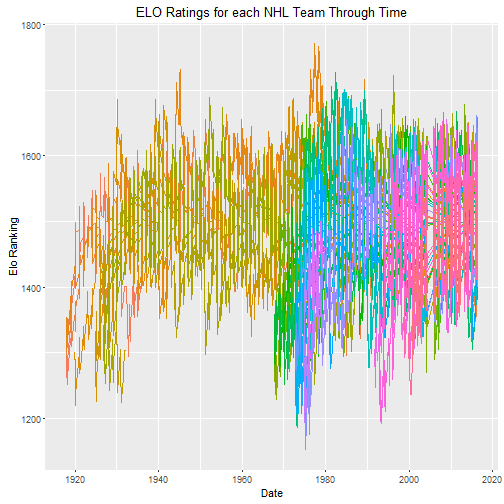
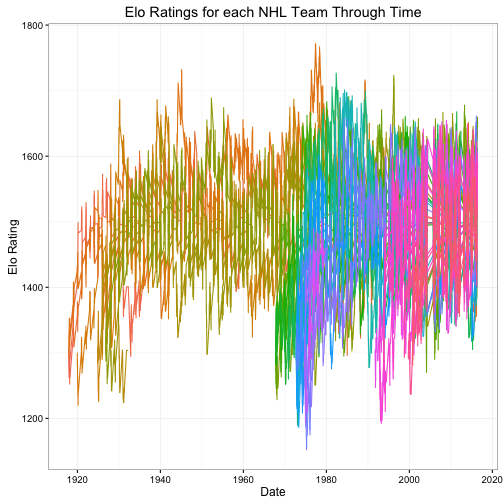
Cleaned up elo plots for recent post.

diff --git a/_posts/2016-10-24-nhl_and_elo_through_the_years_part_one.md b/_posts/2016-10-24-nhl_and_elo_through_the_years_part_one.md
@@ -6,7 +6,7 @@ status: publish
 published: true
 layout: post
 excerpt_separator: <!--more-->
-tags: R hockey ranking Elo plots
+tags: R hockey Rating Elo plots
 ---
  
 
@@ -15,7 +15,7 @@ I've developed my own Elo toolset, with options available that I discussed in [t
  
 <!--more-->
  
-After data is imported (to be covered later), we can run Elo rankings very simply.
+After data is imported (to be covered later), we can run Elo ratings very simply.
  
 
 {% highlight r %}
@@ -66,12 +66,12 @@ elo_all<-calculateEloRatings(schedule = nhl_all, mean_value = 1500, new_teams = 
 ## ==========================================================================
 {% endhighlight %}
  
-First, a discussion on the variables passed in to the function. I've set `k=20`, that's what Fivethirtyeight found best reflected movement in NBA rankings. Similarly, I've set new teams to a value of 1300, and regressed by 1/3 to a mean of 1500. I've set a home-ice advantage of 35 points, that corresponds to the average of 55% home-team wins over the past few years, and 35 points corresponds to that advantage (see previous post).
+First, a discussion on the variables passed in to the function. I've set `k=20`, that's what Fivethirtyeight found best reflected movement in NBA Ratings. Similarly, I've set new teams to a value of 1300, and regressed by 1/3 to a mean of 1500. I've set a home-ice advantage of 35 points, that corresponds to the average of 55% home-team wins over the past few years, and 35 points corresponds to that advantage (see previous post).
  
 Having performed the elo calculations, lets look at some stats:
 ![plot of chunk ggplot_means](/images/ggplot_means-1.png)
  
-You'll see that every time teams are added, the average ranking goes down, and slowly recovers to 1500 A few times the average goes above the target, this happens when low-ranked teams drop out of the league. By this method, we're currently at 1499.541945, but this will decrease next year as Las Vegas steps into the league.
+You'll see that every time teams are added, the average Rating goes down, and slowly recovers to 1500 A few times the average goes above the target, this happens when low-ranked teams drop out of the league. By this method, we're currently at 1499.541945, but this will decrease next year as Las Vegas steps into the league.
  
 ![plot of chunk ggplot_all_ratings](/images/ggplot_all_ratings-1.png)
 Here's every team that has played in the league's ratings over all time. I've dropped the legend because it takes up almost the entire plot canvas, as there are Montreal.Wanderers, St..Louis.Eagles, Toronto.Maple.Leafs, Montreal.Canadiens, Brooklyn.Americans, Boston.Bruins, Montreal.Maroons, Philadelphia.Quakers, New.York.Rangers, Chicago.Blackhawks, Detroit.Red.Wings, Cleveland.Barons, Pittsburgh.Penguins, St..Louis.Blues, Philadelphia.Flyers, Dallas.Stars, Los.Angeles.Kings, Vancouver.Canucks, Buffalo.Sabres, New.York.Islanders, Calgary.Flames, Cleveland.Crusaders, Birmingham.Bulls, Colorado.Avalanche, Edmonton.Oilers, Houston.Aeros, Carolina.Hurricanes, San.Diego.Mariners, Chicago.Cougars, Calgary.Cowboys, Arizona.Coyotes, Michigan.Stags.Baltimore.Blades, Minnesota.Fighting.Saints, Washington.Capitals, New.Jersey.Devils, Phoenix.Roadrunners, Indianapolis.Racers, Denver.Spurs.Ottawa.Civics, Cincinnati.Stingers, San.Jose.Sharks, Tampa.Bay.Lightning, Ottawa.Senators, Florida.Panthers, Anaheim.Ducks, Nashville.Predators, Winnipeg.Jets, Minnesota.Wild, Columbus.Blue.Jackets teams in total. See [this earlier post](https://pbulsink.github.io/blog/2016-07-28/Cleaning-Hockey-Reference-Data.html) about handling teams that have moved or changed names in the past.
@@ -82,9 +82,10 @@ I plan to make a shiny app that I'll link to, where you can investigate each tea
 ggplot(data=elo_all_long[elo_all_long$Team == "Nashville.Predators",], 
         aes(x=Date, y=Rating)) +
      geom_line(colour='darkblue') +
-     ggtitle("ELO Ratings for the Nashville Predators Through Time") +
+     ggtitle("Elo Ratings for the Nashville Predators Through Time") +
      xlab("Date") +
-     ylab("Elo Ranking") +
+     ylab("Elo Rating") +
+     theme_bw() +
      theme(legend.position="none")
 {% endhighlight %}
 
